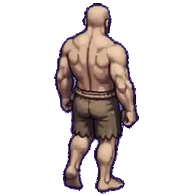
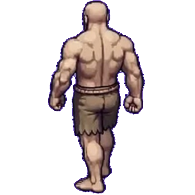
BUILD 413: up walk from the user's 36-frame back-view sheet
9 frames sampled (every 4th) from the 6x6 sheet to fill the LPC walk
phase cycle; blue-keyed, scaled x0.5262, feet-anchored 195x195.
bare/blue/bow up walk use the new set; sword keeps its sword-in-hand
up frames. frameViews now 101. Sim 43715 passed.

Changed region(s): [[0.2462, 0.0, 0.7692, 1.0]]

diff --git a/index.html b/index.html
@@ -1,1 +1,1 @@
-<!doctype html><html lang="en"><head><!-- BUILD309-VIEWPORT-FIX-MARKER --><meta charset="UTF-8"><meta name="viewport" content="width=device-width, initial-scale=1.0, maximum-scale=1.0, user-scalable=no"><meta name="theme-color" content="#17362e"><link rel="icon" type="image/svg+xml" href="favicon.svg"><meta name="description" content="Explore Mosslight Crossing in the Adventure Game field journal."><title>Adventure Game — Mosslight Crossing</title></head><body><div id="root"></div><script>window.__AG_BUILD="412";(function(){var shown=false;function code(m){var h=0,s=window.__AG_BUILD+"|"+m;for(var i=0;i<s.length;i++){h=(Math.imul(h,31)+s.charCodeAt(i))|0;}return "AG"+window.__AG_BUILD+"-"+(h>>>0).toString(36).toUpperCase().padStart(6,"0").slice(-5);}function show(m,k){if(shown||window.__agBooted)return;shown=true;var d=document.createElement("div");d.id="ag-boot-crash";var p=document.createElement("div");p.className="ag-boot-panel";var t=document.createElement("div");t.className="ag-boot-title";t.textContent="\u26a0 GAME FAILED TO START";var c=document.createElement("div");c.className="ag-boot-code";c.textContent=code(String(m));var g=document.createElement("div");g.className="ag-boot-msg";g.textContent=String(m).slice(0,300);var n=document.createElement("div");n.className="ag-boot-kind";n.textContent=k;var b=document.createElement("button");b.textContent="Reload game";b.onclick=function(){location.reload();};p.appendChild(t);p.appendChild(c);p.appendChild(g);p.appendChild(n);p.appendChild(b);d.appendChild(p);document.body.appendChild(d);}window.addEventListener("error",function(e){if(e.target&&e.target!==window)return;show(e.message||"script error","boot error");},true);window.addEventListener("unhandledrejection",function(e){var r=e.reason;show((r&&(r.message||r))||"rejection","boot rejection");});setTimeout(function(){if(!window.__agBooted)show("The game did not finish loading in time.","load timeout");},20000);})();</script><style>#ag-boot-crash{position:fixed;inset:0;z-index:99999;background:#0d1a16;display:flex;align-items:center;justify-content:center;padding:24px}#ag-boot-crash .ag-boot-panel{max-width:420px;width:100%;background:#14261f;border:1px solid #2c4a3e;border-radius:12px;padding:24px;text-align:center;color:#e8f0e9;font-family:system-ui,sans-serif}#ag-boot-crash .ag-boot-title{font-size:20px;font-weight:800;letter-spacing:.5px}#ag-boot-crash .ag-boot-code{font-family:monospace;font-size:22px;color:#ffd75e;margin:12px 0;letter-spacing:1px}#ag-boot-crash .ag-boot-msg{font-size:13px;color:#b9c9bd;word-break:break-word}#ag-boot-crash .ag-boot-kind{font-size:11px;color:#7d8f83;margin-top:8px;text-transform:uppercase;letter-spacing:1px}#ag-boot-crash button{margin-top:16px;background:#e8a33d;border:0;border-radius:8px;padding:10px 22px;font-size:15px;font-weight:700;color:#231603;cursor:pointer}</style><script type="module" src="/src/main.tsx"></script></body></html>
+<!doctype html><html lang="en"><head><!-- BUILD309-VIEWPORT-FIX-MARKER --><meta charset="UTF-8"><meta name="viewport" content="width=device-width, initial-scale=1.0, maximum-scale=1.0, user-scalable=no"><meta name="theme-color" content="#17362e"><link rel="icon" type="image/svg+xml" href="favicon.svg"><meta name="description" content="Explore Mosslight Crossing in the Adventure Game field journal."><title>Adventure Game — Mosslight Crossing</title></head><body><div id="root"></div><script>window.__AG_BUILD="413";(function(){var shown=false;function code(m){var h=0,s=window.__AG_BUILD+"|"+m;for(var i=0;i<s.length;i++){h=(Math.imul(h,31)+s.charCodeAt(i))|0;}return "AG"+window.__AG_BUILD+"-"+(h>>>0).toString(36).toUpperCase().padStart(6,"0").slice(-5);}function show(m,k){if(shown||window.__agBooted)return;shown=true;var d=document.createElement("div");d.id="ag-boot-crash";var p=document.createElement("div");p.className="ag-boot-panel";var t=document.createElement("div");t.className="ag-boot-title";t.textContent="\u26a0 GAME FAILED TO START";var c=document.createElement("div");c.className="ag-boot-code";c.textContent=code(String(m));var g=document.createElement("div");g.className="ag-boot-msg";g.textContent=String(m).slice(0,300);var n=document.createElement("div");n.className="ag-boot-kind";n.textContent=k;var b=document.createElement("button");b.textContent="Reload game";b.onclick=function(){location.reload();};p.appendChild(t);p.appendChild(c);p.appendChild(g);p.appendChild(n);p.appendChild(b);d.appendChild(p);document.body.appendChild(d);}window.addEventListener("error",function(e){if(e.target&&e.target!==window)return;show(e.message||"script error","boot error");},true);window.addEventListener("unhandledrejection",function(e){var r=e.reason;show((r&&(r.message||r))||"rejection","boot rejection");});setTimeout(function(){if(!window.__agBooted)show("The game did not finish loading in time.","load timeout");},20000);})();</script><style>#ag-boot-crash{position:fixed;inset:0;z-index:99999;background:#0d1a16;display:flex;align-items:center;justify-content:center;padding:24px}#ag-boot-crash .ag-boot-panel{max-width:420px;width:100%;background:#14261f;border:1px solid #2c4a3e;border-radius:12px;padding:24px;text-align:center;color:#e8f0e9;font-family:system-ui,sans-serif}#ag-boot-crash .ag-boot-title{font-size:20px;font-weight:800;letter-spacing:.5px}#ag-boot-crash .ag-boot-code{font-family:monospace;font-size:22px;color:#ffd75e;margin:12px 0;letter-spacing:1px}#ag-boot-crash .ag-boot-msg{font-size:13px;color:#b9c9bd;word-break:break-word}#ag-boot-crash .ag-boot-kind{font-size:11px;color:#7d8f83;margin-top:8px;text-transform:uppercase;letter-spacing:1px}#ag-boot-crash button{margin-top:16px;background:#e8a33d;border:0;border-radius:8px;padding:10px 22px;font-size:15px;font-weight:700;color:#231603;cursor:pointer}</style><script type="module" src="/src/main.tsx"></script></body></html>

diff --git a/src/game/iso/barbarian.ts b/src/game/iso/barbarian.ts
@@ -51,14 +51,14 @@ export const BARB_FRAMES: Record<string, Record<string, Record<string, string[]>
     side: { idle: ['barbarian/bare_side_idle_0.png'], walk: ['barbarian/bare_side_walk_0.png', 'barbarian/bare_side_walk_1.png'], attack: ['barbarian/bare_side_attack_0.png', 'barbarian/bare_side_attack_1.png'] },
     right: { idle: ['barbarian/bare_right_idle_0.png'], walk: ['barbarian/bare_right_walk_0.png', 'barbarian/bare_right_walk_1.png'], attack: ['barbarian/bare_side_attack_0.png', 'barbarian/bare_side_attack_1.png'] },
     left: { idle: ['barbarian/bare_left_idle_0.png'], walk: ['barbarian/bare_left_walk_0.png', 'barbarian/bare_left_walk_1.png'], attack: ['barbarian/bare_side_attack_0.png', 'barbarian/bare_side_attack_1.png'] },
-    up: { idle: ['barbarian/bare_up_idle_0.png'], walk: ['barbarian/bare_up_walk_0.png', 'barbarian/bare_up_walk_1.png', 'barbarian/bare_up_walk_2.png', 'barbarian/bare_up_walk_3.png', 'barbarian/bare_up_walk_4.png', 'barbarian/bare_up_walk_5.png'], attack: ['barbarian/bare_up_attack_0.png', 'barbarian/bare_up_attack_1.png'] },
+    up: { idle: ['barbarian/bare_up_idle_0.png'], walk: ['barbarian/bare_up_walk_0.png', 'barbarian/bare_up_walk_1.png', 'barbarian/bare_up_walk_2.png', 'barbarian/bare_up_walk_3.png', 'barbarian/bare_up_walk_4.png', 'barbarian/bare_up_walk_5.png', 'barbarian/bare_up_walk_6.png', 'barbarian/bare_up_walk_7.png', 'barbarian/bare_up_walk_8.png'], attack: ['barbarian/bare_up_attack_0.png', 'barbarian/bare_up_attack_1.png'] },
   },
   blue: {
     down: { idle: ['barbarian/blue_down_idle_0.png'], walk: ['barbarian/blue_down_walk_0.png', 'barbarian/blue_down_walk_1.png'], attack: ['barbarian/blue_down_attack_0.png', 'barbarian/blue_down_attack_1.png'] },
     side: { idle: ['barbarian/blue_side_idle_0.png'], walk: ['barbarian/blue_side_walk_0.png', 'barbarian/blue_side_walk_1.png'], attack: ['barbarian/blue_side_attack_0.png', 'barbarian/blue_side_attack_1.png'] },
     right: { idle: ['barbarian/blue_right_idle_0.png'], walk: ['barbarian/blue_right_walk_0.png', 'barbarian/blue_right_walk_1.png'], attack: ['barbarian/blue_right_attack_0.png', 'barbarian/blue_right_attack_1.png'] },
     left: { idle: ['barbarian/blue_left_idle_0.png'], walk: ['barbarian/blue_left_walk_0.png', 'barbarian/blue_left_walk_1.png'], attack: ['barbarian/blue_left_attack_0.png', 'barbarian/blue_left_attack_1.png'] },
-    up: { idle: ['barbarian/blue_up_idle_0.png'], walk: ['barbarian/blue_up_walk_0.png', 'barbarian/blue_up_walk_1.png', 'barbarian/blue_up_walk_2.png', 'barbarian/blue_up_walk_3.png', 'barbarian/blue_up_walk_4.png', 'barbarian/blue_up_walk_5.png'], attack: ['barbarian/blue_up_attack_0.png', 'barbarian/blue_up_attack_1.png'] },
+    up: { idle: ['barbarian/blue_up_idle_0.png'], walk: ['barbarian/blue_up_walk_0.png', 'barbarian/blue_up_walk_1.png', 'barbarian/blue_up_walk_2.png', 'barbarian/blue_up_walk_3.png', 'barbarian/blue_up_walk_4.png', 'barbarian/blue_up_walk_5.png', 'barbarian/blue_up_walk_6.png', 'barbarian/blue_up_walk_7.png', 'barbarian/blue_up_walk_8.png'], attack: ['barbarian/blue_up_attack_0.png', 'barbarian/blue_up_attack_1.png'] },
   },
   sword: {
     down: { idle: ['barbarian/sword_down_idle_0.png'], walk: ['barbarian/sword_down_walk_0.png', 'barbarian/sword_down_walk_1.png'], attack: ['barbarian/sword_down_attack_0.png', 'barbarian/sword_down_attack_1.png', 'barbarian/sword_down_attack_2.png'] },
@@ -72,7 +72,7 @@ export const BARB_FRAMES: Record<string, Record<string, Record<string, string[]>
     side: { idle: ['barbarian/bow_side_idle_0.png'], walk: ['barbarian/bow_side_walk_0.png'], attack: ['barbarian/bow_side_attack_0.png', 'barbarian/bow_side_attack_1.png', 'barbarian/bow_side_attack_2.png'] },
     right: { idle: ['barbarian/bow_right_idle_0.png'], walk: ['barbarian/bow_right_walk_0.png', 'barbarian/bow_right_walk_1.png'], attack: ['barbarian/bow_right_attack_0.png', 'barbarian/bow_right_attack_1.png', 'barbarian/bow_right_attack_2.png'] },
     left: { idle: ['barbarian/bow_left_idle_0.png'], walk: ['barbarian/bow_left_walk_0.png', 'barbarian/bow_left_walk_1.png'], attack: ['barbarian/bow_left_attack_0.png', 'barbarian/bow_left_attack_1.png', 'barbarian/bow_left_attack_2.png'] },
-    up: { idle: ['barbarian/bow_up_idle_0.png'], walk: ['barbarian/bow_up_walk_0.png', 'barbarian/bow_up_walk_1.png', 'barbarian/bow_up_walk_2.png', 'barbarian/bow_up_walk_3.png', 'barbarian/bow_up_walk_4.png', 'barbarian/bow_up_walk_5.png'], attack: ['barbarian/bow_up_attack_0.png', 'barbarian/bow_up_attack_1.png', 'barbarian/bow_up_attack_2.png'] },
+    up: { idle: ['barbarian/bow_up_idle_0.png'], walk: ['barbarian/bow_up_walk_0.png', 'barbarian/bow_up_walk_1.png', 'barbarian/bow_up_walk_2.png', 'barbarian/bow_up_walk_3.png', 'barbarian/bow_up_walk_4.png', 'barbarian/bow_up_walk_5.png', 'barbarian/bow_up_walk_6.png', 'barbarian/bow_up_walk_7.png', 'barbarian/bow_up_walk_8.png'], attack: ['barbarian/bow_up_attack_0.png', 'barbarian/bow_up_attack_1.png', 'barbarian/bow_up_attack_2.png'] },
   },
 };
 export const BARB_BOX: Record<string, Record<string, {w:number;h:number;head:[number,number];idleH:number}>> = {

diff --git a/scripts/simulate.ts b/scripts/simulate.ts
@@ -3027,11 +3027,12 @@ console.log('Testing examine system...');
       (BARB_FRAMES[v]?.['right']?.['attack']?.length ?? 0) >= 2,
       `${v} dedicated right set must have idle + ${wantWalk} walk + attack frames`);
   }
-  // BUILD 412: bare/blue/bow up walk is the user's 6-frame back-view strip;
+  // BUILD 413: bare/blue/bow up walk is 9 frames sampled (every 4th) from the
+  // user's 36-frame back-view sheet, filling the LPC walk phase cycle;
   // sword keeps its 9 sword-in-hand up frames (BUILD 409).
   for (const v of ['bare', 'blue', 'bow'] as const) {
-    assert(BARB_FRAMES[v]?.['up']?.['walk']?.length === 6,
-      `${v} up walk must be the 6-frame back-view strip`);
+    assert(BARB_FRAMES[v]?.['up']?.['walk']?.length === 9,
+      `${v} up walk must be the 9 sampled back-view frames`);
   }
   assert(BARB_FRAMES['sword']?.['up']?.['walk']?.length === 9,
     'sword up walk must keep its 9 sword-in-hand frames');
